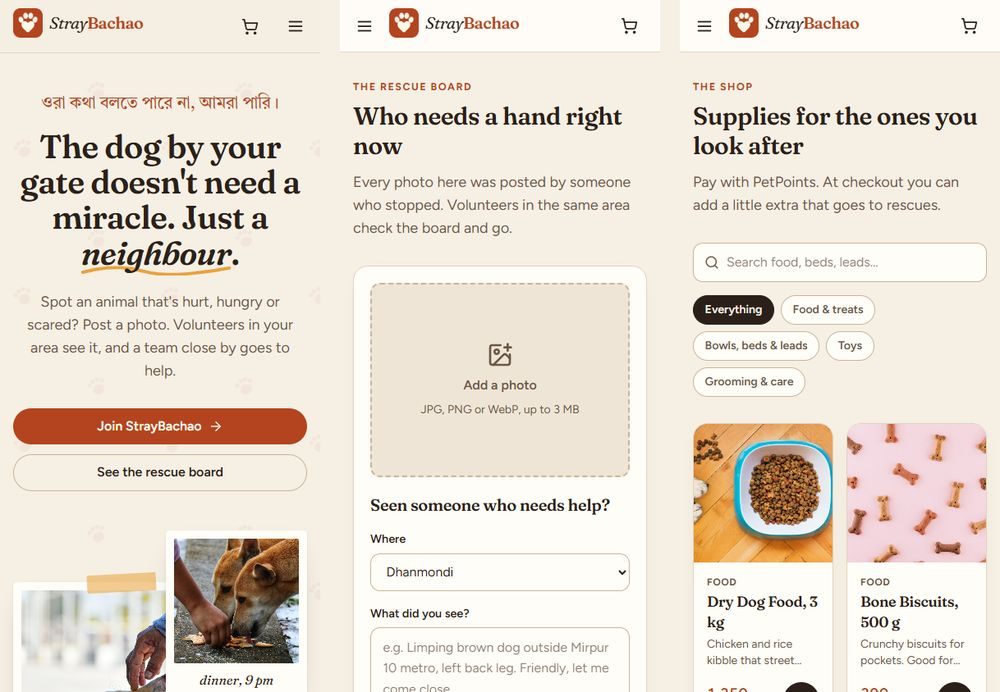
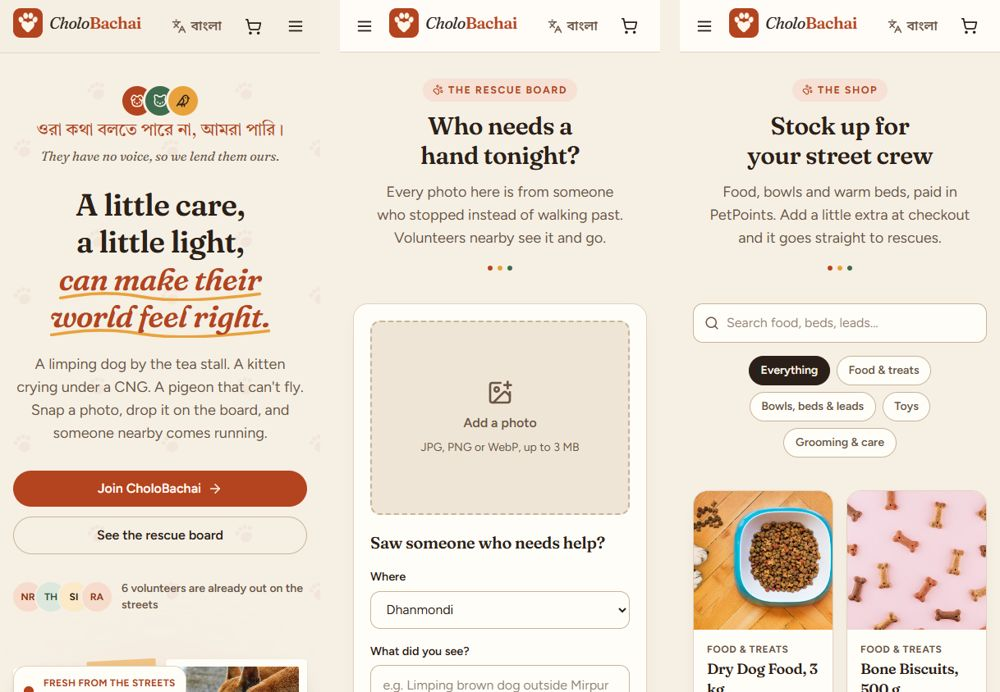
Rename project

diff --git a/backend/seed.js b/backend/seed.js
@@ -41,15 +41,15 @@ const products = [
 ];
 
 const people = [
-  { name: 'Admin', email: 'admin@straybachao.com', password: 'Admin@1234', role: 'admin', points: 0, location: 'Dhanmondi', bio: 'Runs the StrayBachao shop and keeps the board tidy.' },
-  { name: 'Nabila Rahman', email: 'nabila@straybachao.com', password: 'Volunteer@123', role: 'volunteer', points: 4200, location: 'Dhanmondi', bio: 'Fosters kittens and runs the Dhanmondi lake feeding route most evenings. Ask me about the three-legged one.' },
-  { name: 'Tanvir Hasan', email: 'tanvir@straybachao.com', password: 'Volunteer@123', role: 'volunteer', points: 3100, location: 'Uttara', bio: 'I have a car and I do not sleep much, so night rescues and clinic runs are mine.' },
-  { name: 'Sadia Islam', email: 'sadia@straybachao.com', password: 'Volunteer@123', role: 'volunteer', points: 2650, location: 'Mirpur', bio: 'Final year vet student. First aid, deworming and the monthly vaccination camp in Mirpur.' },
-  { name: 'Rafiq Ahmed', email: 'rafiq@straybachao.com', password: 'Volunteer@123', role: 'volunteer', points: 1800, location: 'Gulshan', bio: 'Weekend volunteer. Mostly cats around Gulshan 2 and adoption day logistics.' },
-  { name: 'Arif Chowdhury', email: 'arif@straybachao.com', password: 'Volunteer@123', role: 'volunteer', points: 950, location: 'Badda', bio: 'Tea stall on Link Road. The dogs here know the sound of my shutter opening.' },
-  { name: 'Priya Das', email: 'priya@straybachao.com', password: 'Volunteer@123', role: 'volunteer', points: 1400, location: 'Mohammadpur', bio: 'মায়ের সাথে ২০১৯ থেকে মোহাম্মদপুর বাজারের কুকুরগুলোকে খাওয়াই।' },
-  { name: 'Mehedi Khan', email: 'mehedi@straybachao.com', password: 'Donor@1234', role: 'donor', points: 6000, location: 'Banani', bio: '' },
-  { name: 'Farhana Akter', email: 'farhana@straybachao.com', password: 'Donor@1234', role: 'donor', points: 4500, location: 'Moghbazar', bio: '' },
+  { name: 'Admin', email: 'admin@cholobachai.com', password: 'Admin@1234', role: 'admin', points: 0, location: 'Dhanmondi', bio: 'Runs the CholoBachai shop and keeps the board tidy.' },
+  { name: 'Nabila Rahman', email: 'nabila@cholobachai.com', password: 'Volunteer@123', role: 'volunteer', points: 4200, location: 'Dhanmondi', bio: 'Fosters kittens and runs the Dhanmondi lake feeding route most evenings. Ask me about the three-legged one.' },
+  { name: 'Tanvir Hasan', email: 'tanvir@cholobachai.com', password: 'Volunteer@123', role: 'volunteer', points: 3100, location: 'Uttara', bio: 'I have a car and I do not sleep much, so night rescues and clinic runs are mine.' },
+  { name: 'Sadia Islam', email: 'sadia@cholobachai.com', password: 'Volunteer@123', role: 'volunteer', points: 2650, location: 'Mirpur', bio: 'Final year vet student. First aid, deworming and the monthly vaccination camp in Mirpur.' },
+  { name: 'Rafiq Ahmed', email: 'rafiq@cholobachai.com', password: 'Volunteer@123', role: 'volunteer', points: 1800, location: 'Gulshan', bio: 'Weekend volunteer. Mostly cats around Gulshan 2 and adoption day logistics.' },
+  { name: 'Arif Chowdhury', email: 'arif@cholobachai.com', password: 'Volunteer@123', role: 'volunteer', points: 950, location: 'Badda', bio: 'Tea stall on Link Road. The dogs here know the sound of my shutter opening.' },
+  { name: 'Priya Das', email: 'priya@cholobachai.com', password: 'Volunteer@123', role: 'volunteer', points: 1400, location: 'Mohammadpur', bio: 'মায়ের সাথে ২০১৯ থেকে মোহাম্মদপুর বাজারের কুকুরগুলোকে খাওয়াই।' },
+  { name: 'Mehedi Khan', email: 'mehedi@cholobachai.com', password: 'Donor@1234', role: 'donor', points: 6000, location: 'Banani', bio: '' },
+  { name: 'Farhana Akter', email: 'farhana@cholobachai.com', password: 'Donor@1234', role: 'donor', points: 4500, location: 'Moghbazar', bio: '' },
 ];
 
 // the first in crew leads the team; log entries are [who, message, hours ago]
@@ -94,14 +94,14 @@ function daysAgo(n) {
 }
 
 const orderPlan = [
-  { buyer: 'mehedi@straybachao.com', days: 2,  lines: [['SP-001', 1], ['SP-009', 2]], donation: 200, status: 'Delivered' },
-  { buyer: 'farhana@straybachao.com', days: 4, lines: [['SP-006', 3]], donation: 0, status: 'Delivered' },
-  { buyer: 'mehedi@straybachao.com', days: 6,  lines: [['SP-004', 1], ['SP-007', 2]], donation: 100, status: 'Delivered' },
-  { buyer: 'farhana@straybachao.com', days: 9, lines: [['SP-010', 1]], donation: 0, status: 'Out for Delivery' },
-  { buyer: 'mehedi@straybachao.com', days: 13, lines: [['SP-008', 1], ['SP-012', 1]], donation: 300, status: 'Delivered' },
-  { buyer: 'farhana@straybachao.com', days: 18, lines: [['SP-002', 1]], donation: 0, status: 'Delivered' },
-  { buyer: 'mehedi@straybachao.com', days: 24, lines: [['SP-011', 1], ['SP-009', 1]], donation: 0, status: 'Pending' },
-  { buyer: 'farhana@straybachao.com', days: 30, lines: [['SP-003', 1], ['SP-006', 2]], donation: 500, status: 'Delivered' },
+  { buyer: 'mehedi@cholobachai.com', days: 2,  lines: [['SP-001', 1], ['SP-009', 2]], donation: 200, status: 'Delivered' },
+  { buyer: 'farhana@cholobachai.com', days: 4, lines: [['SP-006', 3]], donation: 0, status: 'Delivered' },
+  { buyer: 'mehedi@cholobachai.com', days: 6,  lines: [['SP-004', 1], ['SP-007', 2]], donation: 100, status: 'Delivered' },
+  { buyer: 'farhana@cholobachai.com', days: 9, lines: [['SP-010', 1]], donation: 0, status: 'Out for Delivery' },
+  { buyer: 'mehedi@cholobachai.com', days: 13, lines: [['SP-008', 1], ['SP-012', 1]], donation: 300, status: 'Delivered' },
+  { buyer: 'farhana@cholobachai.com', days: 18, lines: [['SP-002', 1]], donation: 0, status: 'Delivered' },
+  { buyer: 'mehedi@cholobachai.com', days: 24, lines: [['SP-011', 1], ['SP-009', 1]], donation: 0, status: 'Pending' },
+  { buyer: 'farhana@cholobachai.com', days: 30, lines: [['SP-003', 1], ['SP-006', 2]], donation: 500, status: 'Delivered' },
 ];
 
 async function seed() {
@@ -137,7 +137,7 @@ async function seed() {
   const productById = new Map(createdProducts.map((p) => [p.id, p]));
   console.log(`Inserted ${createdProducts.length} products`);
 
-  const byName = (handle) => userByEmail.get(`${handle}@straybachao.com`);
+  const byName = (handle) => userByEmail.get(`${handle}@cholobachai.com`);
   const hoursAgo = (h) => new Date(Date.now() - h * 3600 * 1000);
 
   const createdTeams = await Team.insertMany(
@@ -198,9 +198,9 @@ async function seed() {
 
   const revenue = orders.reduce((sum, o) => sum + o.totalPoints, 0);
   console.log(`\nDone. Demo revenue across seeded orders: ${revenue} points`);
-  console.log('Admin login:     admin@straybachao.com / Admin@1234');
-  console.log('Volunteer login: nabila@straybachao.com / Volunteer@123');
-  console.log('Donor login:     mehedi@straybachao.com / Donor@1234');
+  console.log('Admin login:     admin@cholobachai.com / Admin@1234');
+  console.log('Volunteer login: nabila@cholobachai.com / Volunteer@123');
+  console.log('Donor login:     mehedi@cholobachai.com / Donor@1234');
 
   await mongoose.disconnect();
 }

diff --git a/frontend/src/i18n/bn.js b/frontend/src/i18n/bn.js
@@ -57,12 +57,12 @@ const bn = {
     title2a: 'ওদের জীবন হোক',
     title2b: 'আরও ভালো।',
     lead: 'চায়ের দোকানের পাশে খুঁড়িয়ে হাঁটা কুকুর। সিএনজির নিচে কাঁদতে থাকা বিড়ালছানা। উড়তে না পারা একটা কবুতর। একটা ছবি তুলে বোর্ডে দিন, কাছেই কেউ ছুটে আসবে।',
-    join: 'StrayBachao-তে যোগ দিন',
+    join: 'চলো বাঁচাই-এ যোগ দিন',
     board: 'রেসকিউ বোর্ড দেখুন',
     already: '{n} জন স্বেচ্ছাসেবক এখনই রাস্তায় আছেন',
     cap1: 'প্রথমবার কাউকে কাছে আসতে দিল',
     cap2: 'রাত ৯টা, সেই একই মোড়ে',
-    statsLabel: 'এখন পর্যন্ত StrayBachao',
+    statsLabel: 'এখন পর্যন্ত চলো বাঁচাই',
     statRescues: 'রেসকিউ পোস্ট',
     statVolunteers: 'স্বেচ্ছাসেবক',
     statTeams: 'ঢাকা জুড়ে টিম',
@@ -149,7 +149,7 @@ const bn = {
   },
   login: {
     quote: 'আজ রাতেও কোথাও একটা কুকুর অপেক্ষা করছে, আপনার মতো কেউ একজন থামবে বলে।',
-    home: 'StrayBachao হোম',
+    home: 'চলো বাঁচাই হোম',
     welcome: 'আবার স্বাগতম',
     joinTitle: 'পাড়ার একজন হয়ে যান',
     welcomeSub: 'রাস্তা আপনাকে মিস করেছে। সাইন ইন করে দেখুন আজ কার সাহায্য দরকার।',
@@ -170,7 +170,7 @@ const bn = {
     shortPw: 'পাসওয়ার্ডে কমপক্ষে ৮ অক্ষর দিন।',
     mismatch: 'দুটো পাসওয়ার্ড মেলেনি।',
     hello: 'আবার স্বাগতম',
-    helloNew: 'হয়ে গেছে। StrayBachao-তে স্বাগতম',
+    helloNew: 'হয়ে গেছে। চলো বাঁচাই-এ স্বাগতম',
     already: 'আপনি সাইন ইন করা আছেন।',
     goDesk: 'রেসকিউ ডেস্কে যান',
     showPw: 'পাসওয়ার্ড দেখুন',

diff --git a/frontend/index.html b/frontend/index.html
@@ -5,14 +5,14 @@
     <link rel="icon" type="image/svg+xml" href="/paw-heart.svg" />
     <meta name="viewport" content="width=device-width, initial-scale=1.0" />
     <meta name="theme-color" content="#B4441F" />
-    <meta name="description" content="StrayBachao connects people who spot an animal in trouble with volunteers nearby who can feed it, treat it and look after it." />
+    <meta name="description" content="CholoBachai connects people who spot an animal in trouble with volunteers nearby who can feed it, treat it and look after it." />
     <link rel="preconnect" href="https://fonts.googleapis.com" />
     <link rel="preconnect" href="https://fonts.gstatic.com" crossorigin />
     <link
       rel="stylesheet"
       href="https://fonts.googleapis.com/css2?family=Fraunces:ital,opsz,wght,SOFT@0,9..144,400..800,50;1,9..144,400..700,50&family=Figtree:wght@400;500;600;700&family=Tiro+Bangla:ital@0;1&family=Noto+Sans+Bengali:wght@400;500;600;700&display=swap"
     />
-    <title>StrayBachao | An Animal Rescue Network</title>
+    <title>CholoBachai | An Animal Rescue Network</title>
     <script>
       // set the theme before first paint so a dark-mode visitor never sees a cream flash
       try {
@@ -25,7 +25,7 @@
     <div id="root"></div>
     <noscript>
       <p style="font-family:sans-serif;padding:2rem;text-align:center">
-        StrayBachao needs JavaScript switched on to load rescues and teams.<br />রেসকিউ আর টিম দেখতে JavaScript চালু করুন।
+        CholoBachai needs JavaScript switched on to load rescues and teams.<br />রেসকিউ আর টিম দেখতে JavaScript চালু করুন।
       </p>
     </noscript>
     <script type="module" src="/src/main.jsx"></script>

diff --git a/frontend/src/i18n/en.js b/frontend/src/i18n/en.js
@@ -66,12 +66,12 @@ const en = {
     title2b: 'world feel right.',
     mottoGloss: 'They have no voice, so we lend them ours.',
     lead: 'A limping dog by the tea stall. A kitten crying under a CNG. A pigeon that can\'t fly. Snap a photo, drop it on the board, and someone nearby comes running.',
-    join: 'Join StrayBachao',
+    join: 'Join CholoBachai',
     board: 'See the rescue board',
     already: '{n} volunteers are already out on the streets',
     cap1: 'the first time he let someone close',
     cap2: 'dinner, 9 pm, same corner',
-    statsLabel: 'StrayBachao so far',
+    statsLabel: 'CholoBachai so far',
     statRescues: 'rescues posted',
     statVolunteers: 'volunteers',
     statTeams: 'teams across Dhaka',
@@ -158,7 +158,7 @@ const en = {
   },
   login: {
     quote: 'Somewhere tonight, a street dog is waiting for someone like you to stop.',
-    home: 'StrayBachao home',
+    home: 'CholoBachai home',
     welcome: 'Welcome back',
     joinTitle: 'Join the neighbourhood',
     welcomeSub: 'The street missed you. Sign in and see who needs a hand today.',
@@ -179,7 +179,7 @@ const en = {
     shortPw: 'Use at least 8 characters for the password.',
     mismatch: "The two passwords don't match.",
     hello: 'Welcome back',
-    helloNew: "You're in. Welcome to StrayBachao",
+    helloNew: "You're in. Welcome to CholoBachai",
     already: "You're already signed in.",
     goDesk: 'Go to your rescue desk',
     showPw: 'Show password',

diff --git a/frontend/src/pages/Login.jsx b/frontend/src/pages/Login.jsx
@@ -10,9 +10,9 @@ import { Wordmark, PasswordField, LangButton } from "../components/bits";
 // the accounts `npm run seed` creates, so anyone looking at the project can
 // get in with one click; they are listed in the README too
 const DEMO = [
-  { key: "volunteer", email: "nabila@straybachao.com", password: "Volunteer@123", icon: HandHeart },
-  { key: "donor", email: "mehedi@straybachao.com", password: "Donor@1234", icon: Heart },
-  { key: "admin", email: "admin@straybachao.com", password: "Admin@1234", icon: LayoutDashboard },
+  { key: "volunteer", email: "nabila@cholobachai.com", password: "Volunteer@123", icon: HandHeart },
+  { key: "donor", email: "mehedi@cholobachai.com", password: "Donor@1234", icon: Heart },
+  { key: "admin", email: "admin@cholobachai.com", password: "Admin@1234", icon: LayoutDashboard },
 ];
 
 const Login = () => {

diff --git a/backend/controllers/authController.js b/backend/controllers/authController.js
@@ -59,8 +59,8 @@ export const register = async (req, res) => {
         const mailOptions = {
             from : process.env.SENDER_EMAIL,
             to : email,
-            subject: "Welcome to StrayBachao",
-            text: "Welcome to StrayBachao. Your account is ready, and the strays of your area just got one more friend."
+            subject: "Welcome to CholoBachai",
+            text: "Welcome to CholoBachai. Your account is ready, and the strays of your area just got one more friend."
         }
 
         // account is already saved, don't fail the signup if the mail bounces

diff --git a/frontend/src/components/bits.jsx b/frontend/src/components/bits.jsx
@@ -15,8 +15,8 @@ export function Wordmark({ className = "", size = "text-2xl" }) {
     <span className={`inline-flex items-center gap-2 ${className}`} lang="en">
       <img src="/paw-heart.svg" alt="" className="w-9 h-9 shrink-0" />
       <span className={`font-display font-semibold tracking-tight leading-none ${size}`}>
-        <span className="italic font-normal">Stray</span>
-        <span className="text-clay">Bachao</span>
+        <span className="italic font-normal">Cholo</span>
+        <span className="text-clay">Bachai</span>
       </span>
     </span>
   );

diff --git a/frontend/src/pages/AdminDashboard.jsx b/frontend/src/pages/AdminDashboard.jsx
@@ -679,7 +679,7 @@ const AdminDashboard = () => {
                         <div className="flex items-center justify-between mb-12">
                             <div>
                                 <p className={`text-2xl font-bold ${isDarkMode ? 'text-gray-200' : 'text-gray-700'}`}>
-                                    Orders, stock and the money side of StrayBachao.
+                                    Orders, stock and the money side of CholoBachai.
                                 </p>
                             </div>
                             <button

diff --git a/frontend/src/components/Layout.jsx b/frontend/src/components/Layout.jsx
@@ -258,7 +258,7 @@ function Footer({ compact }) {
           {publicLinks.map((l) => <Link key={l.to} to={l.to} className="hover:text-ink">{t(l.key)}</Link>)}
         </nav>
         <p className="text-sm text-ink-2">
-          © {new Date().getFullYear()} StrayBachao · {t("footer.photos")}{" "}
+          © {new Date().getFullYear()} CholoBachai · {t("footer.photos")}{" "}
           <a href="https://unsplash.com" className="underline underline-offset-2 hover:text-ink" rel="noreferrer" target="_blank">Unsplash</a>
         </p>
       </div>

diff --git a/frontend/src/index.css b/frontend/src/index.css
@@ -4,7 +4,7 @@
 @custom-variant dark (&:where(.dark, .dark *));
 
 /* ------------------------------------------------------------------------
-   StrayBachao colours.
+   CholoBachai colours.
 
    Warm paper, clay and moss - the colours of a Dhaka street after rain
    rather than a pet shop. Everything reads from these variables, so the

diff --git a/backend/tests/globalSetup.js b/backend/tests/globalSetup.js
@@ -24,7 +24,7 @@ async function waitForServer(url, timeoutMs = 30000) {
 
 export async function setup({ provide }) {
   mongo = await MongoMemoryServer.create();
-  const uri = mongo.getUri('straybachao_test');
+  const uri = mongo.getUri('cholobachai_test');
   provide('mongoUri', uri);
   provide('baseUrl', 'http://localhost:4100');
 

diff --git a/tools/browser_checks.py b/tools/browser_checks.py
@@ -1,6 +1,6 @@
 #!/usr/bin/env python3
 """
-Browser checks for StrayBachao, run in a real browser through Playwright.
+Browser checks for CholoBachai, run in a real browser through Playwright.
 
   1. crawl     every page a visitor, a volunteer, a supporter and the admin can
                reach: nothing blank, no console errors, no failed requests
@@ -205,11 +205,11 @@ def main():
         print("\n=== crawl ===")
         visitor = browser.new_context()
         volunteer = browser.new_context()
-        sign_in(volunteer, "nabila@straybachao.com", "Volunteer@123")
+        sign_in(volunteer, "nabila@cholobachai.com", "Volunteer@123")
         supporter = browser.new_context()
-        sign_in(supporter, "mehedi@straybachao.com", "Donor@1234")
+        sign_in(supporter, "mehedi@cholobachai.com", "Donor@1234")
         admin = browser.new_context()
-        sign_in(admin, "admin@straybachao.com", "Admin@1234")
+        sign_in(admin, "admin@cholobachai.com", "Admin@1234")
 
         crawled = {
             "visitor": crawl(visitor, BASE + "/"),
@@ -269,7 +269,7 @@ def main():
         page.evaluate("localStorage.setItem('lang', 'en')")
         page.close()
 
-        for who, email, password in (("visitor", None, None), ("volunteer", "nabila@straybachao.com", "Volunteer@123")):
+        for who, email, password in (("visitor", None, None), ("volunteer", "nabila@cholobachai.com", "Volunteer@123")):
             ctx = browser.new_context()
             ctx.add_init_script("try { localStorage.setItem('lang', 'bn') } catch (e) {}")
             if email:
